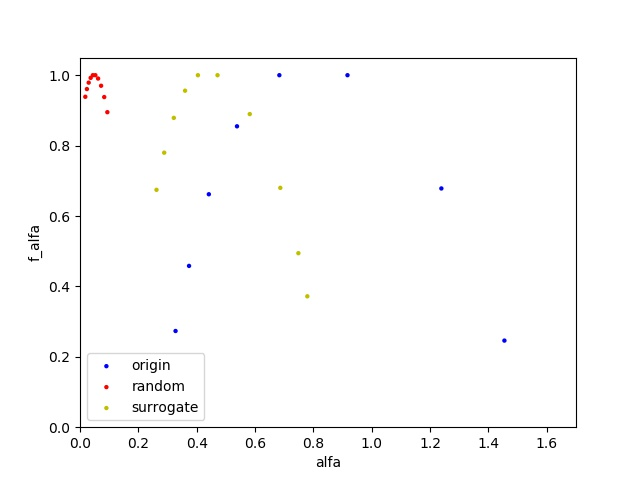
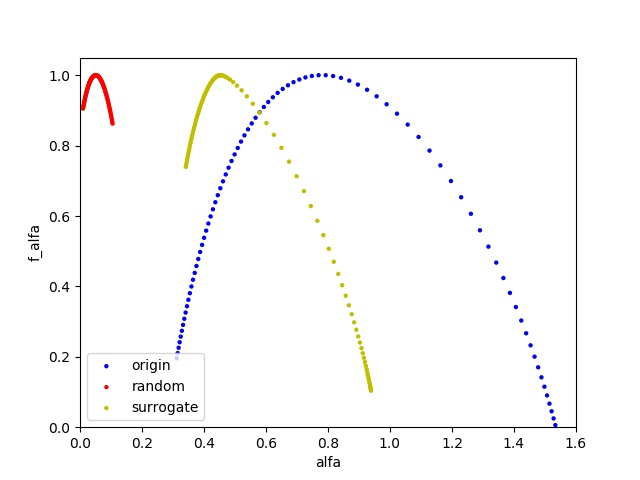
new graph

diff --git a/finite.py b/finite.py
@@ -27,9 +27,9 @@ def print_graph(filename, folder, x, y, labels, label_x, label_y, scale, locate=
 
 def estimate_fse(filename, class_t, folder):
     reader, reader_rand, reader_surr = FSE_init('data\\' + filename)
-    method_dcca = class_t(-5, 5, 1, reader)
-    method_dcca_rand = class_t(-5, 5, 1, reader_rand)
-    method_dcca_surr = class_t(-5, 5, 1, reader_surr)
+    method_dcca = class_t(-5, 5, 10, reader)
+    method_dcca_rand = class_t(-5, 5, 10, reader_rand)
+    method_dcca_surr = class_t(-5, 5, 10, reader_surr)
     method_dcca.generate()
     method_dcca_rand.generate()
     method_dcca_surr.generate()
@@ -52,14 +52,13 @@ def estimate_fse(filename, class_t, folder):
 
 
 current_dir = 'data'
-# list_t =
-# [-5.0, -4.9, -4.8, -4.7, -4.6, -4.5, -4.4, -4.3, -4.2, -4.1, -4.0, -3.9, -3.8, -3.7, -3.6, -3.5, -3.4, -3.3, -3.2, -3.1, -3.0, -2.9, -2.8, -2.7, -2.6, -2.5, -2.4, -2.3, -2.2, -2.1, -2.0, -1.9, -1.8, -1.7, -1.6, -1.5, -1.4, -1.3, -1.2, -1.1, -1.0, -0.9, -0.8, -0.7, -0.6, -
-# 0.5, -0.4, -0.3, -0.2, -0.1, 0.0, 0.1, 0.2, 0.3, 0.4, 0.5, 0.6, 0.7,
-# 0.8, 0.9, 1.0, 1.1, 1.2, 1.3, 1.4, 1.5, 1.6, 1.7, 1.8, 1.9, 2.0, 2.1,
-# 2.2, 2.3, 2.4, 2.5, 2.6, 2.7, 2.8, 2.9, 3.0, 3.1, 3.2, 3.3, 3.4, 3.5,
-# 3.6, 3.7, 3.8, 3.9, 4.0, 4.1, 4.2, 4.3, 4.4, 4.5, 4.6, 4.7, 4.8, 4.9,
-# 5.0]
-list_t = [-5, -4, -3, -2, -1, 0, 1, 2, 3, 4, 5]
+list_t = [-5.0, -4.9, -4.8, -4.7, -4.6, -4.5, -4.4, -4.3, -4.2, -4.1, -4.0, -3.9, -3.8, -3.7, -3.6, -3.5, -3.4, -3.3, -3.2, -3.1, -3.0, -2.9, -2.8, -2.7, -2.6, -2.5, -2.4, -2.3, -2.2, -2.1, -2.0, -1.9, -1.8, -1.7, -1.6, -1.5, -1.4, -1.3, -1.2, -1.1, -1.0, -0.9, -0.8, -0.7, -0.6, -
+          0.5, -0.4, -0.3, -0.2, -0.1, 0.0, 0.1, 0.2, 0.3, 0.4, 0.5, 0.6, 0.7,
+          0.8, 0.9, 1.0, 1.1, 1.2, 1.3, 1.4, 1.5, 1.6, 1.7, 1.8, 1.9, 2.0, 2.1,
+          2.2, 2.3, 2.4, 2.5, 2.6, 2.7, 2.8, 2.9, 3.0, 3.1, 3.2, 3.3, 3.4, 3.5,
+          3.6, 3.7, 3.8, 3.9, 4.0, 4.1, 4.2, 4.3, 4.4, 4.5, 4.6, 4.7, 4.8, 4.9,
+          5.0]
+#list_t = [-5, -4, -3, -2, -1, 0, 1, 2, 3, 4, 5]
 flist = [list_t, list_t, list_t]
 hurst_cca = []
 hurst_dcca = []
@@ -76,12 +75,12 @@ dcca_p1 = hurst_cca[0:3]
 dcca_p2 = hurst_cca[3:6]
 dpxa_p1 = hurst_dcca[0:3]
 dpxa_p2 = hurst_dcca[3:6]
-axiss = [-5.5, 5.5, 0, 1.4])
+axiss = [-5.5, 5.5, 0, 1.4]
 print_graph('hurst_cca1', 'fse_cca\\', flist,
-            dcca_p1, label_hurst, 'q', 'H_q', scale = axiss)
+            dcca_p1, label_hurst, 'q', 'H_q', scale=axiss)
 print_graph('hurst_cca2', 'fse_dcca\\', flist,
-            dcca_p2, label_hurst, 'q', 'H_q', scale = axiss)
+            dcca_p2, label_hurst, 'q', 'H_q', scale=axiss)
 print_graph('hurst_dcca1', 'fse_cca\\', flist,
-            dpxa_p1, label_hurst, 'q', 'H_q', scale = axiss)
+            dpxa_p1, label_hurst, 'q', 'H_q', scale=axiss)
 print_graph('hurst_dcca2', 'fse_dcca\\', flist,
-            dpxa_p2, label_hurst, 'q', 'H_q', scale = axiss)
+            dpxa_p2, label_hurst, 'q', 'H_q', scale=axiss)
